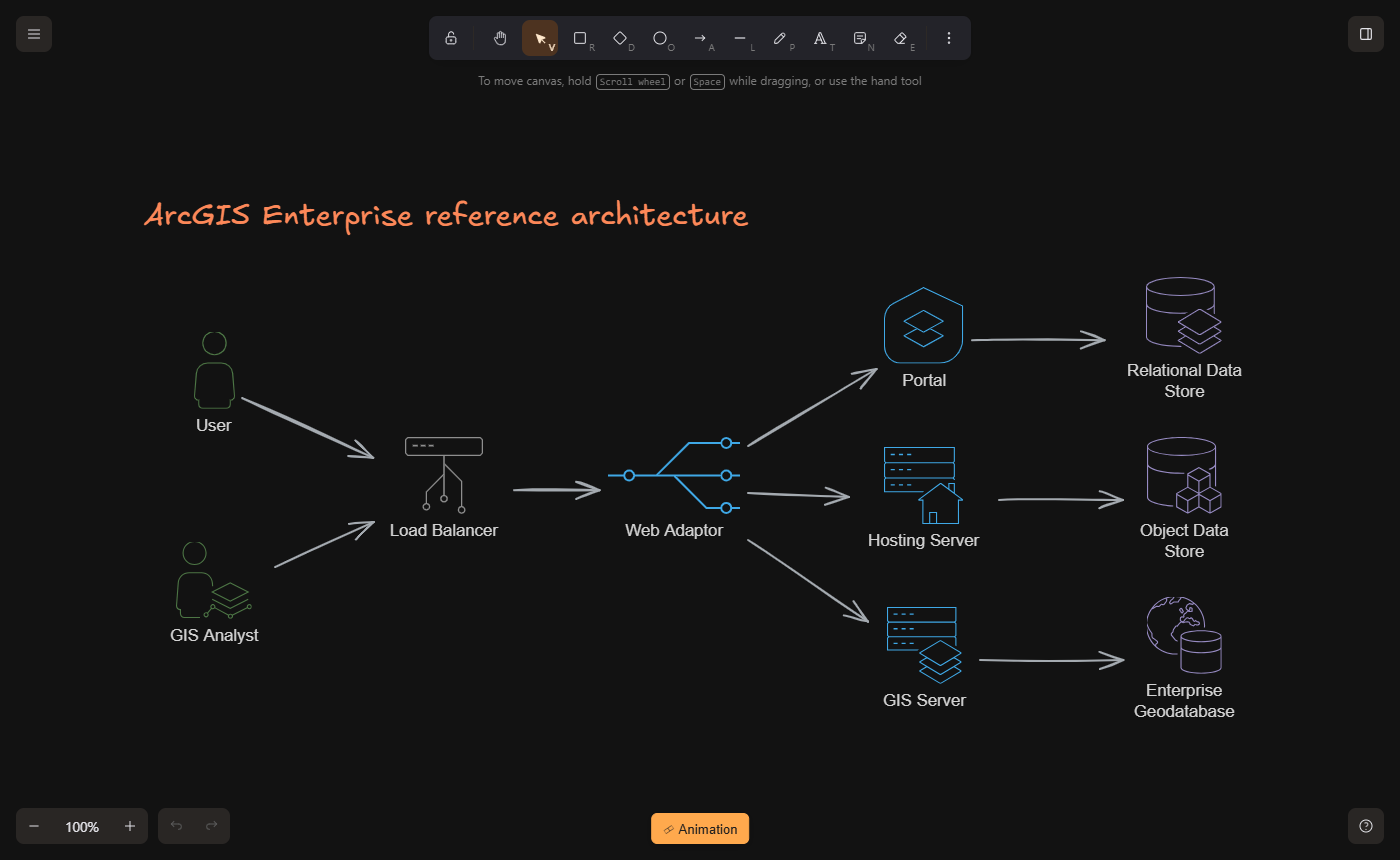
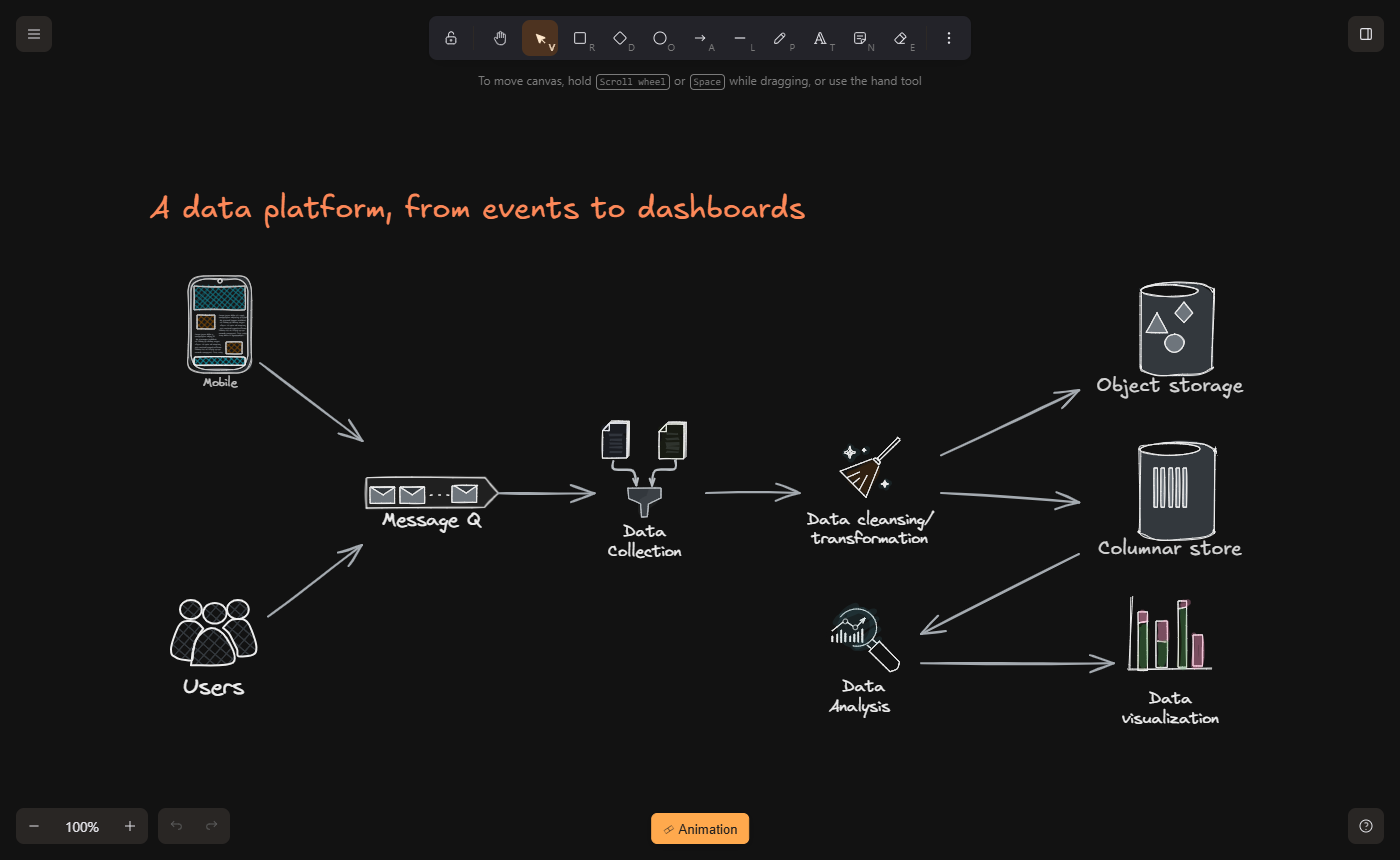
Docs: reposition the project, generic hero media, roadmap (#11)
- New tagline and README intro ("hand-drawn diagrams that move"); GIS
  is presented as one pack among others.
- New hero GIF and light/dark screenshots with a generic data platform;
  the ArcGIS media is kept as the GIS pack examples.
- Roadmap rewritten around the new direction.

diff --git a/excalidraw-app/branding.ts b/excalidraw-app/branding.ts
@@ -2,7 +2,7 @@
 // (and docs/BRANDING.md lists the other places: README, package names, Docker image name).
 export const BRAND = {
   name: "Trazo",
-  tagline: "Local-first diagram studio for architecture, data, GIS and ML",
+  tagline: "Hand-drawn diagrams that move. A local-first diagram studio.",
   /** Repository URL shown in the About dialog and error reports; empty hides the link. */
   repoUrl: "https://github.com/balalex12/trazo",
   upstream: {

diff --git a/excalidraw-app/index.html b/excalidraw-app/index.html
@@ -12,7 +12,7 @@
     <meta name="theme-color" content="#121212" />
     <meta
       name="description"
-      content="Local-first diagram studio for architecture, data, GIS and ML."
+      content="Hand-drawn diagrams that move. A local-first diagram studio: animated slides to MP4/GIF, bring your own LLM, no telemetry."
     />
     <meta name="robots" content="noindex" />
 

diff --git a/README.md b/README.md
@@ -2,11 +2,11 @@
 
 # Trazo
 
-**A local-first diagram studio for architecture, data engineering, GIS and machine learning.** Hand-drawn whiteboard · live ArcGIS maps · animated slides → MP4/GIF · bring-your-own LLM · no telemetry.
+**Hand-drawn diagrams that move.** A local-first diagram studio: animate your slides into MP4 or GIF, generate diagrams with your own LLM, and keep everything on your machine. No telemetry.
 
-<img src="docs/media/animation-demo.gif" alt="An ArcGIS Enterprise architecture built step by step with Trazo: animated slides with official Esri icons, exported as a GIF" width="720">
+<img src="docs/media/animation-demo.gif" alt="A data platform built step by step with Trazo: animated slides exported as a GIF" width="720">
 
-<sub>An ArcGIS Enterprise architecture built step by step, made and exported to GIF with Trazo itself (official Esri Architecture Center icons). Elements that do not change stay perfectly still; only what changes animates.</sub>
+<sub>A data platform built step by step, made and exported to GIF with Trazo itself. Elements that do not change stay perfectly still; only what changes animates.</sub>
 
 _Built on [Excalidraw](https://github.com/excalidraw/excalidraw) (MIT). Not affiliated with or endorsed by Excalidraw or Esri._
 
@@ -24,26 +24,33 @@ Excalidraw is a great hand-drawn whiteboard. Trazo keeps everything that makes i
 
 |  |  |
 | --- | --- |
-| 🗺 **Live maps inside the canvas** | Embed interactive ArcGIS maps. Add layers by URL or item ID, browse _My content_ / search any portal, open Web Maps, sketch on top. Works with **ArcGIS Online and any number of ArcGIS Enterprise portals** at the same time. Optional Utility Network trace (needs a Web Map with a Utility Network). |
-| 🧩 **Architecture-ready library** | 450+ components grouped **by source**, never mixed: official **Esri Architecture Center** icons (Enterprise components, data stores, personas…), Utility Network concepts, services & SDKs, plus 16 curated **community libraries** (data platform, deep learning, system design, UML/ER, network topology, Microsoft Fabric…) downloaded from the official catalog at build time with their authors credited. |
-| 🎞 **Animated slides** | Frames are slides. Duplicate a slide, change things, and elements **animate between slides** (position, size, colour, opacity…). Preview, present with ← →, and **export MP4 or GIF**, rendered in your browser, nothing uploaded. |
+| 🎞 **Diagrams that move** | Frames are slides. Duplicate a slide, change things, and elements **animate between slides** (position, size, colour, opacity…). Each slide has its own timing and transition (smart, fade or cut), and unchanged elements stay still. Preview, present with ← →, and **export MP4 or GIF**, rendered in your browser, nothing uploaded. |
 | 🤖 **Bring your own LLM** | "Text to diagram" connects to **your** model: Ollama / LM Studio locally, **Ollama Cloud**, any OpenAI-compatible server, or Anthropic. Off by default; nothing is sent until you configure it. Output is a Mermaid diagram turned into editable shapes, colored by role with symbols (see [docs/AI.md](docs/AI.md#styling-diagrams-colors-symbols)). |
-| 🔒 **Local-first & hardened** | No analytics, no Sentry, no CDN, no service worker, no hosted collaboration. Strict Content-Security-Policy, read-only containers, ports bound to `127.0.0.1`. See [docs/SECURITY.md](docs/SECURITY.md), and verify it yourself. |
+| 🔒 **Local-first and hardened** | No analytics, no Sentry, no CDN, no service worker, no hosted collaboration. Strict Content-Security-Policy, read-only containers, ports bound to `127.0.0.1`. One `docker compose` and it runs on your machine. See [docs/SECURITY.md](docs/SECURITY.md), and verify it yourself. |
+| 🧩 **Icon packs by source** | 450+ components grouped **by source**, never mixed, each credited to its author: architecture and system design, data processing, deep learning, networking, UML/ER, Microsoft Fabric… from 16 curated **community libraries** (downloaded from the official catalog at build time), plus the **GIS pack** below. |
+| 🗺 **GIS pack: live maps and Esri icons** | Embed interactive ArcGIS maps in the canvas: add layers by URL or item ID, browse _My content_ or search any portal, open Web Maps, sketch on top. Works with **ArcGIS Online and any number of ArcGIS Enterprise portals** at once. Official **Esri Architecture Center** icons and Utility Network concepts. Optional Utility Network trace (needs a Web Map with a Utility Network). |
 
 <table>
 <tr>
-<td><img src="docs/media/editor-light.png" alt="An ArcGIS Enterprise architecture in light mode"><br><sub><b>Light mode</b>: an ArcGIS Enterprise architecture with official Esri icons</sub></td>
-<td><img src="docs/media/editor-dark.png" alt="The same architecture in dark mode"><br><sub><b>Dark mode</b>: same drawing, theme-aware UI</sub></td>
+<td><img src="docs/media/editor-light.png" alt="A data platform diagram in light mode"><br><sub><b>Light mode</b>: a data platform from events to dashboards</sub></td>
+<td><img src="docs/media/editor-dark.png" alt="The same diagram in dark mode"><br><sub><b>Dark mode</b>: same drawing, theme-aware UI</sub></td>
 </tr>
 <tr>
-<td><img src="docs/media/map-embed.png" alt="Interactive ArcGIS map in the canvas"><br><sub><b>Live map</b> inside the canvas (ArcGIS Online or any Enterprise portal)</sub></td>
 <td><img src="docs/media/text-to-diagram.png" alt="Text to diagram with your own LLM"><br><sub><b>Text to diagram</b> with your own LLM: colors, symbols and groups</sub></td>
+<td><img src="docs/media/library.png" alt="Library grouped by source"><br><sub><b>Library</b> grouped by source, never mixed</sub></td>
 </tr>
 <tr>
-<td><img src="docs/media/library.png" alt="Library grouped by source"><br><sub><b>Library</b> grouped by source, never mixed</sub></td>
-<td><img src="docs/media/welcome.png" alt="Trazo welcome screen"><br><sub><b>Welcome screen</b>: local-first, nothing leaves your browser</sub></td>
+<td><img src="docs/media/map-embed.png" alt="Interactive ArcGIS map in the canvas"><br><sub><b>GIS pack</b>: a live map inside the canvas (ArcGIS Online or any Enterprise portal)</sub></td>
+<td><img src="docs/media/arcgis-architecture.png" alt="An ArcGIS Enterprise architecture with official Esri icons"><br><sub><b>GIS pack</b>: an ArcGIS Enterprise architecture with official Esri icons</sub></td>
 </tr>
 </table>
+
+<details>
+<summary>See the GIS pack animated</summary>
+
+<img src="docs/media/animation-arcgis.gif" alt="An ArcGIS Enterprise architecture built step by step with Trazo" width="720">
+
+</details>
 
 ### Quick start
 
@@ -109,13 +116,13 @@ Issues and PRs welcome, see [CONTRIBUTING.md](CONTRIBUTING.md). Security reports
 
 ### ¿Qué es Trazo?
 
-Un estudio de diagramas **local-first** para arquitectura, ingeniería de datos, GIS y ciencia de datos / ML, construido sobre [Excalidraw](https://github.com/excalidraw/excalidraw) (MIT). Conserva su estilo dibujado a mano y añade:
+**Diagramas dibujados a mano que se mueven.** Un estudio de diagramas **local-first** construido sobre [Excalidraw](https://github.com/excalidraw/excalidraw) (MIT). Conserva su estilo dibujado a mano y añade:
 
-- 🗺 **Mapas ArcGIS vivos dentro del lienzo**, con capas por URL o ID, búsqueda en el portal, Web Maps y dibujo encima. Funciona con **ArcGIS Online y varios ArcGIS Enterprise a la vez**; trazado de Utility Network opcional.
-- 🧩 **Librería para arquitectura** con más de 150 componentes en inglés agrupados por fuente (íconos oficiales de Esri Architecture Center, Utility Network, servicios y SDK).
-- 🎞 **Diapositivas animadas**: los elementos se animan entre diapositivas; exporta a **MP4 o GIF** sin salir de tu navegador.
+- 🎞 **Diagramas que se mueven**: cada diapositiva tiene su propio tiempo y su tipo de transición (inteligente, fundido o corte); lo que no cambia se queda quieto. Exporta a **MP4 o GIF** sin salir de tu navegador.
 - 🤖 **Tu propio LLM** (Ollama, LM Studio, compatible con OpenAI, Claude) para pasar de texto a diagrama. Apagado por defecto.
-- 🔒 **Local y endurecido**: sin analítica, sin telemetría, sin CDN, sin colaboración alojada; política de seguridad estricta y contenedores de solo lectura.
+- 🔒 **Local y endurecido**: sin analítica, sin telemetría, sin CDN, sin colaboración alojada; política de seguridad estricta y contenedores de solo lectura. Un solo `docker compose`.
+- 🧩 **Paquetes de íconos por fuente**: más de 450 componentes agrupados por fuente y con sus autores acreditados (arquitectura y diseño de sistemas, procesamiento de datos, aprendizaje profundo, redes, UML/ER, Microsoft Fabric…).
+- 🗺 **Paquete GIS**: mapas ArcGIS vivos dentro del lienzo, con capas por URL o ID, búsqueda en el portal, Web Maps y dibujo encima. Funciona con **ArcGIS Online y varios ArcGIS Enterprise a la vez**. Incluye los íconos oficiales de Esri Architecture Center y trazado de Utility Network opcional.
 
 ### Inicio rápido
 

diff --git a/docs/ROADMAP.md b/docs/ROADMAP.md
@@ -2,18 +2,21 @@
 
 Status legend: ✅ done · 🧪 done but needs real-world validation · 🔜 next · 💡 idea
 
+## Direction
+
+Trazo is **"hand-drawn diagrams that move"**: draw it, animate it, explain it, export it, all on your own machine. GIS is one icon and map pack among others, not the identity of the project. Features are picked by one question: does it help someone explain a technical system with a diagram?
+
 ## Done
 
 - ✅ Local-first: no telemetry/CDN/hosted services, strict CSP, hardened containers, network audit script
-- ✅ ArcGIS viewer: items/layers/services, any-host URL recognition, portal browser, sketch, multi-portal UI
-- ✅ Library: 150+ English ArcGIS components grouped by source (official Esri icons), plus the community libraries below
 - ✅ Animated slides, Preview/Present, MP4 + GIF export (browser-only)
 - ✅ Animation timing per slide (own hold time) and a transition type per slide (Smart, Fade, Cut); identical elements never move or blink
-- ✅ Brand color (orange ink) with light and dark themes, including our own panels and dialogs
-- ✅ Per-font license audit (see `THIRD_PARTY_NOTICES.md`)
 - ✅ Opt-in LLM connector (OpenAI-compatible, Ollama Cloud via local pass-through, Anthropic) for Text to diagram
-- ✅ Own identity (name, welcome mark, app icons, PWA manifest), About & credits
-- ✅ Community libraries as per-source sections (16 libraries, 311 items; downloaded at build time, public profile without brand-logo libraries)
+- ✅ Library grouped by source: 150+ English ArcGIS components (official Esri icons) plus 16 community libraries (311 items; downloaded at build time, public profile without brand-logo libraries)
+- ✅ GIS pack: ArcGIS viewer (items/layers/services, any-host URL recognition, portal browser, sketch, multi-portal UI)
+- ✅ Brand color (orange ink) with light and dark themes, including our own panels and dialogs
+- ✅ Own identity (name, welcome mark, app icons, PWA manifest), About and credits
+- ✅ Per-font license audit (see `THIRD_PARTY_NOTICES.md`)
 
 ## Needs real-world validation 🧪
 
@@ -24,21 +27,31 @@ Status legend: ✅ done · 🧪 done but needs real-world validation · 🔜 nex
 
 ## Next 🔜
 
+Ordered by value for the direction above. Each item ships as its own pull request, with a short demo GIF.
+
+1. **Infrastructure to diagram, no LLM needed.** Paste a `docker-compose.yml`, Kubernetes manifests or Terraform plan JSON and get an architecture diagram with icons. Deterministic parsers (the file is read, nothing is invented), fully offline. Later: OpenAPI, SQL DDL to ER, dbt lineage.
+2. **Canvas recorder with narration.** Record the **canvas, not the screen**, with microphone audio, at the size you choose: a live walk-through (pointer, drawing, slide changes) or a played animation, exported as MP4/WebM. Plan: render the scene at the target size with the existing animation renderer, add the microphone track (`getUserMedia` + WebCodecs audio encoder, muxed with the vendored mp4-muxer). Everything stays in the browser; the microphone is requested only when you press record.
+3. **Deeper animation.** Arrows that draw themselves, reveal-in-order, camera moves between regions, captions, richer easing, and a self-contained HTML player as an alternative to video.
+4. **LLM that edits and explains the diagram you already have** ("add a cache between the API and the database", "explain this flow"), with your own model.
+5. **More packs.** GIS tools (FME, GeoPandas, GDAL/OGR, PostGIS, QGIS), data engineering (Spark, Airflow, dbt, Kafka-style streams), ML and deep learning (scikit-learn, PyTorch, TensorFlow, MLflow). Public packs use **original neutral icons labelled with the tool name**, never vendor logos; logos can be added in a local profile under each vendor's brand guidelines. Packs live in a manifest per pack so anyone can contribute one with a pull request, and the build can include only the packs you want (`--packs=...`).
+6. **Python notebooks, in two steps.** First, an embedded **JupyterLite** (Python running in the browser through WebAssembly): no server, no code executed on the host, nothing leaves the page. Which GIS and ML libraries are available there has to be checked before promising any. Second, optionally, a separate Jupyter container for the full Python environment. It means running arbitrary code, so it would be off by default, bound to `127.0.0.1` with a token, in its own service, and documented in `SECURITY.md` before it ships.
+
+Housekeeping:
+
 - Replace Liberation Sans 1.05 (GPL v2 with font exception) with Liberation Sans 2.x (OFL), and ship the OFL 1.1 text next to the fonts
 - Committed browser test suite (the checks used during development, as Playwright tests) + CI
 - Self-hosted ArcGIS SDK option (fully offline except for map data)
 - Source releases with a changelog and versioning; pin the viewer's nginx image by digest. **No prebuilt Docker image is published on purpose:** everyone builds locally, which keeps the Esri Calcite icons (Esri MLA) out of anything we redistribute. If a public image is ever wanted, build it with `--profile=public` and without the Calcite sections (see [LIBRARIES.md](LIBRARIES.md))
 - Replace the remaining upstream docs (`dev-docs/`, `examples/`) or move them out of the root
 - Spanish/English UI strings for the new dialogs (i18n)
-- Animation: audio narration / music; richer easing; animate map viewpoints between slides
 
 ## Ideas 💡
 
 - **Self-hosted / local-network collaboration**: reuse the dormant collab code (socket.io + storage) against a server you run yourself (never a third-party service by default), documented in SECURITY.md before it ships
 - Export slides to a HyperFrames composition for narration/overlays (Apache-2.0 tool by HeyGen)
-- Diagram-to-code and "explain this architecture" with a vision-capable model
-- ArcGIS-aware templates: Enterprise deployment topologies, Utility Network data models, ML/data platform reference architectures
-- Mermaid/diagram import from ArcGIS Architecture Center reference architectures
+- Animate map viewpoints between slides, and capture the real map into exported video
+- Templates: Enterprise deployment topologies, Utility Network data models, cloud, data platform and ML reference architectures
+- Import from Mermaid, PlantUML and draw.io files
 - Optional encrypted sync to a self-hosted store (never a hosted service by default)
 
 ## Known limits
